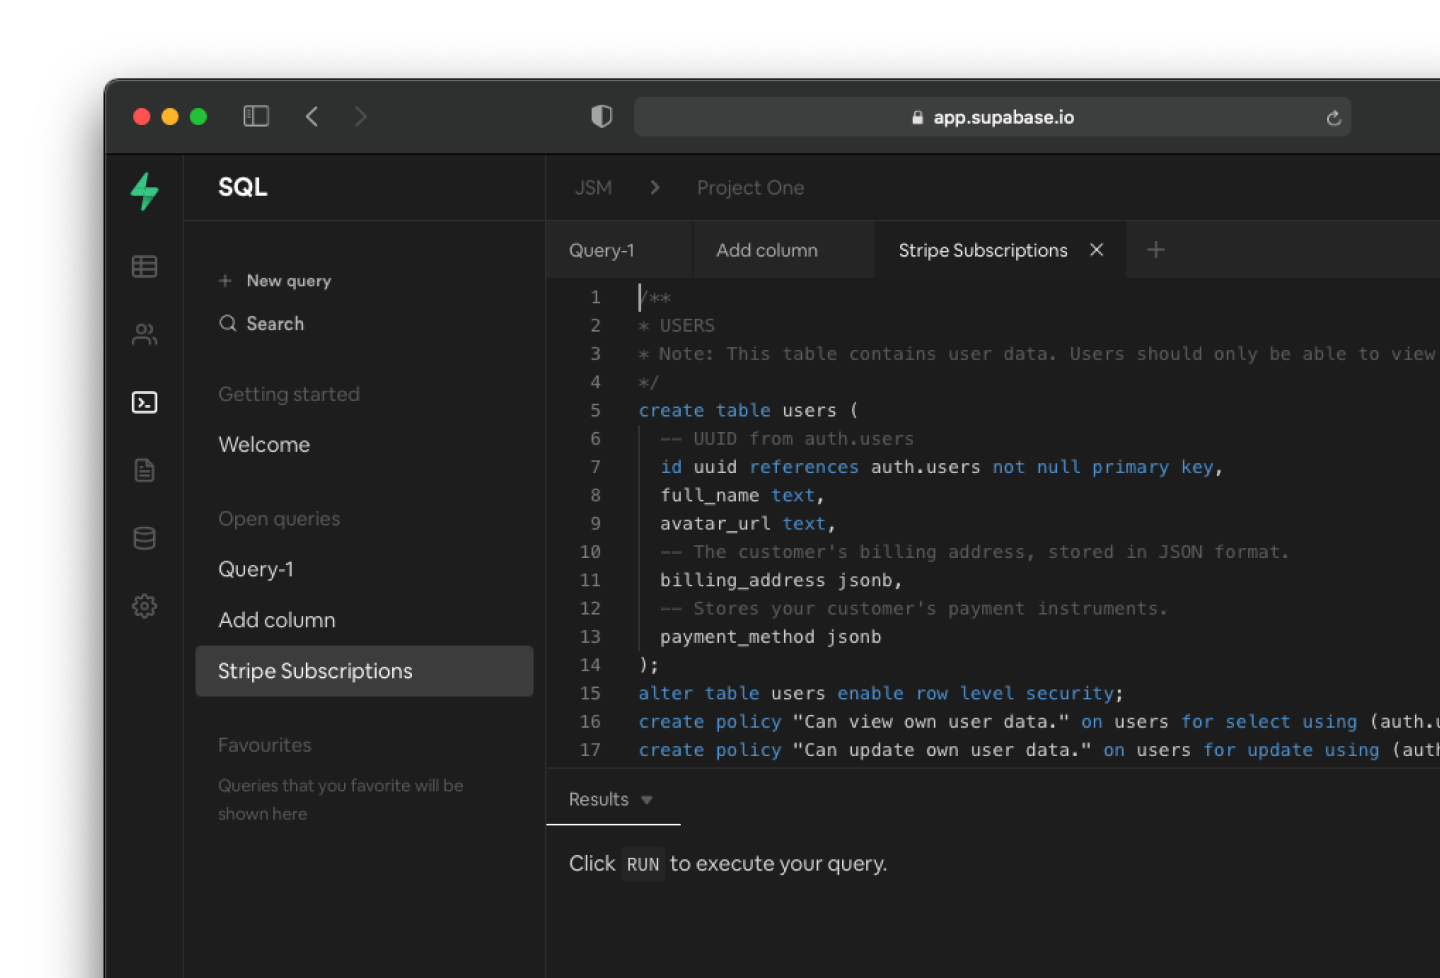
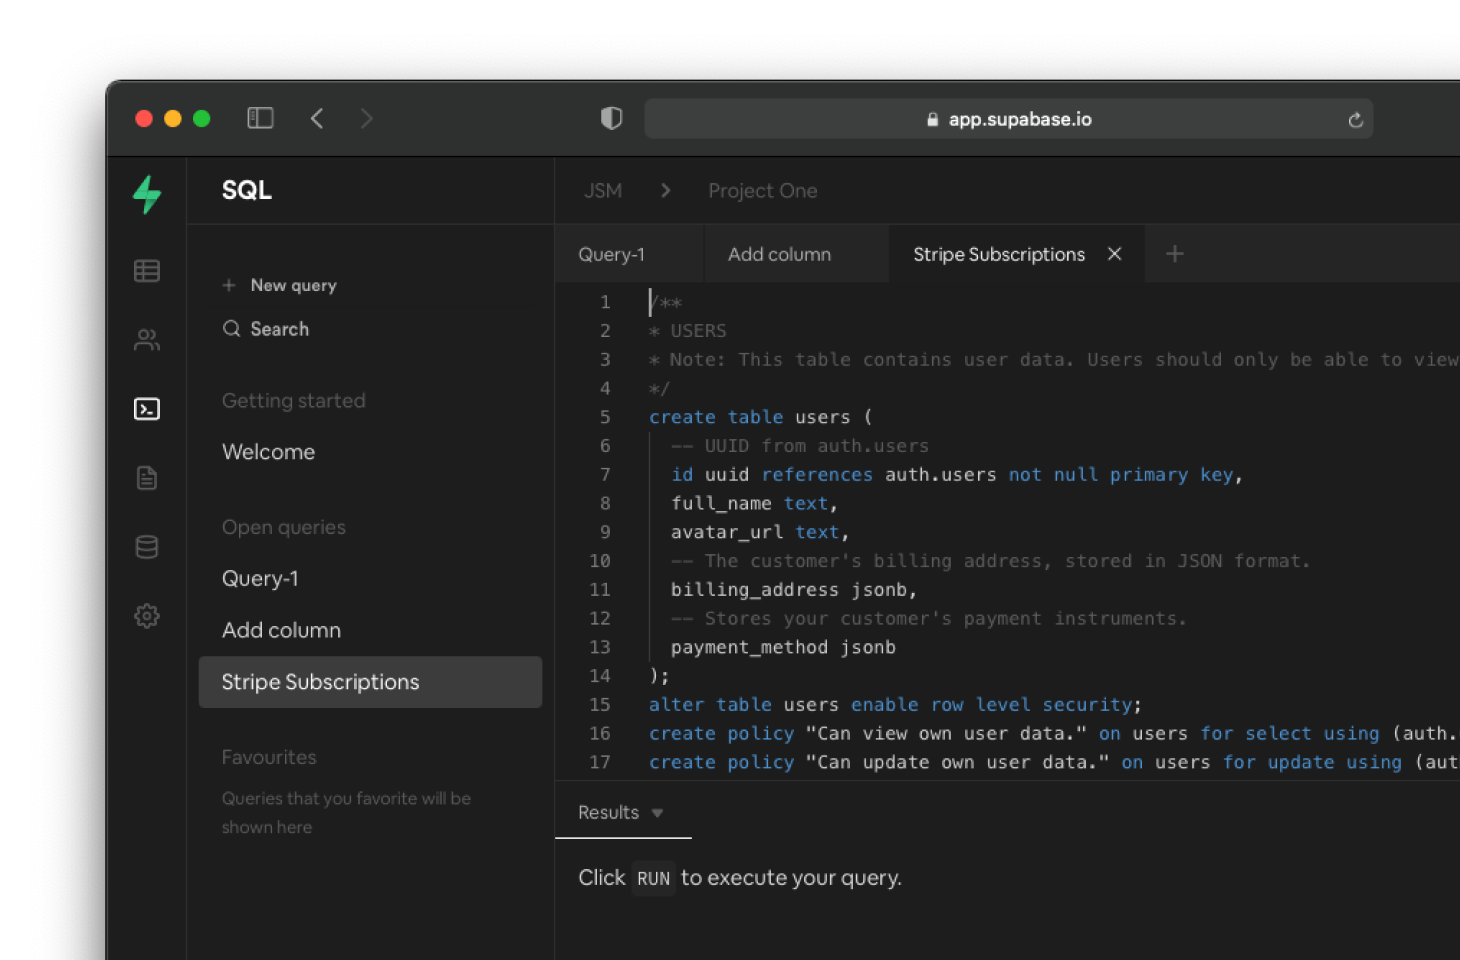
update carousel images and use Next/Image

diff --git a/www/pages/database/Database.tsx b/www/pages/database/Database.tsx
@@ -15,6 +15,7 @@ import SqlViewCarouselData from 'data/products/database/sql-view-carousel.json'
 import TableViewCarouselData from 'data/products/database/table-view-carousel.json'
 import Solutions from 'data/Solutions.json'
 import { NextSeo } from 'next-seo'
+import Image from 'next/image'
 import Link from 'next/link'
 import { useRouter } from 'next/router'
 import { useState } from 'react'
@@ -84,16 +85,24 @@ function Database() {
             'PostgreSQL is one of the worlds most scalable databases.',
           ]}
           image={[
-            <img
-              key={'database-header-img--light'}
-              className="w-full header--light block"
-              src={`${basePath}/images/product/database/header--light-2.png`}
-            />,
-            <img
-              key={'database-header-img--dark'}
-              className="w-full header--dark mr-0 dark:block"
-              src={`${basePath}/images/product/database/header--dark-2.png`}
-            />,
+            <div className="w-full header--light block">
+              <Image
+                src={`${basePath}/images/product/database/header--light-2.png`}
+                alt="database header"
+                layout="responsive"
+                width="720"
+                height="520"
+              />
+            </div>,
+            <div className="w-full header--dark mr-0 dark:block">
+              <Image
+                src={`${basePath}/images/product/database/header--dark-2.png`}
+                alt="database header"
+                layout="responsive"
+                width="720"
+                height="520"
+              />
+            </div>,
           ]}
         />
 
@@ -212,7 +221,7 @@ function Database() {
                   footer={[
                     <TweetCard
                       handle="@Elsolo244"
-                      img_url="https://pbs.twimg.com/profile_images/2486328968/v6citnk33y2wpeyzrq05_400x400.jpeg"
+                      img_url={`${basePath}/images/twitter-profiles/v6citnk33y2wpeyzrq05_400x400.jpeg`}
                       quote="Where has
                 @supabase_io
                 been all my life? 😍"
@@ -228,7 +237,7 @@ function Database() {
                   footer={[
                     <TweetCard
                       handle="@jim_bisenius"
-                      img_url="https://pbs.twimg.com/profile_images/1372987165869760513/rLgwUZSB_400x400.jpg"
+                      img_url={`${basePath}/images/twitter-profiles/rLgwUZSB_400x400.jpg`}
                       quote="@MongoDB or @MySQL?!?! Please, let me introduce you to @supabase_io and the wonderful world of @PostgreSQL before it's too late!!"
                     />,
                   ]}
@@ -271,13 +280,13 @@ function Database() {
                   </Space>
                 </div>
                 <div className="col-span-12 lg:col-span-6 xl:col-span-10 hidden xl:block">
-                  <TweetCard
+                  {/* <TweetCard
                     handle="@eunjae_lee"
                     img_url="https://pbs.twimg.com/profile_images/1188191474401320965/eGjSYbQd_400x400.jpg"
                     quote="So they just help me use @PostgreSQL better. They don't try to invent a wheel and trap me
           in it. Whereas they provide a good abstraction overall, they also provide a raw access to
           the database."
-                  />
+                  /> */}
                 </div>
               </div>,
             ]}

diff --git a/www/components/Carousels/ImageCarousel.tsx b/www/components/Carousels/ImageCarousel.tsx
@@ -10,6 +10,7 @@ import 'swiper/swiper.min.css'
 
 import ImageCarouselStyles from './ImageCarousel.module.css'
 import Link from 'next/link'
+import Image from 'next/image'
 
 interface Content {
   title: string
@@ -106,7 +107,14 @@ function ImageCarousel(props: ImageCarouselProps) {
               {props.content.map((content: Content, i: number) => {
                 return (
                   <SwiperSlide key={i}>
-                    {content.img_url && <img src={`${basePath}${content.img_url}`} />}
+                    {content.img_url && (
+                      <Image
+                        src={`${basePath}${content.img_url}`}
+                        layout="responsive"
+                        width="1460"
+                        height="960"
+                      />
+                    )}
                     {content.video_url && (
                       <video
                         src={`${basePath}/${content.video_url}`}
